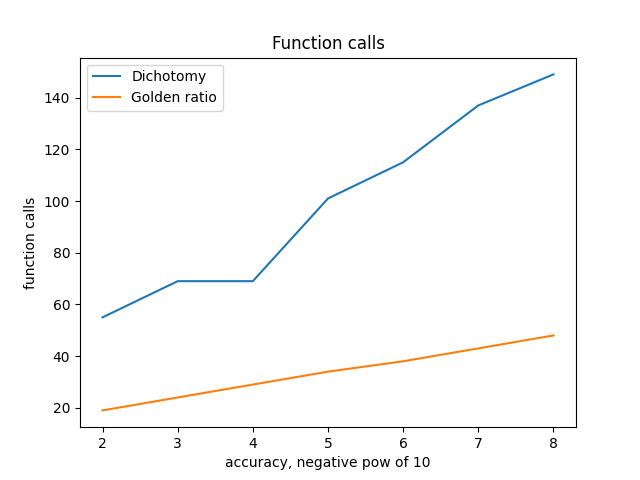
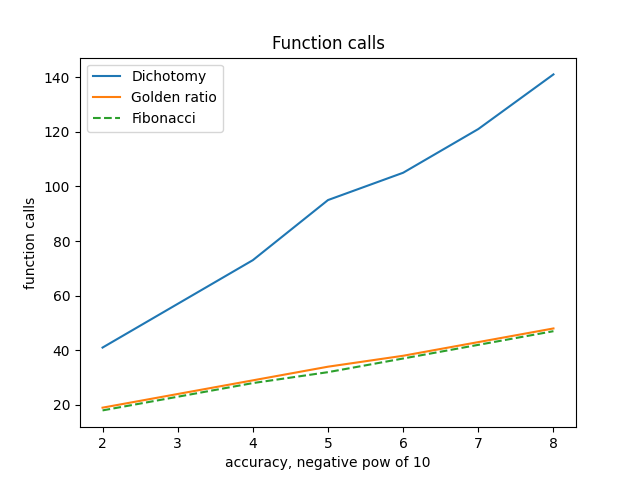
Fix and compare fibonacci method

diff --git a/lab-1/src/main/kotlin/ru/itmo/optmethods/methods/onedim/comparison/OneDimMethodsComparison.kt b/lab-1/src/main/kotlin/ru/itmo/optmethods/methods/onedim/comparison/OneDimMethodsComparison.kt
@@ -4,7 +4,9 @@ import ru.itmo.optmethods.functions.OneDimFunction
 import ru.itmo.optmethods.methods.MinimizationResult
 import ru.itmo.optmethods.methods.Rational
 import ru.itmo.optmethods.methods.onedim.DichotomyMethod
+import ru.itmo.optmethods.methods.onedim.FibonacciMethod
 import ru.itmo.optmethods.methods.onedim.GoldenRatioMethod
+import ru.itmo.optmethods.methods.onedim.OneDimMinimizationMethod
 import ru.itmo.optmethods.plot.plot
 import ru.itmo.optmethods.plot.points
 import kotlin.math.abs
@@ -15,12 +17,16 @@ private data class Segment(val start: Rational, val end: Rational) {
     val size = abs(end - start)
 }
 
+private data class MethodComparisonResult(
+    val calculationResult: MinimizationResult,
+    val segments: List<Segment>
+)
+
 private data class ComparisonResult(
     val accuracy: Rational,
-    val dichotomyResult: MinimizationResult,
-    val dichotomySegments: List<Segment>,
-    val goldenRatioResult: MinimizationResult,
-    val goldenRatioSegments: List<Segment>
+    val dichotomyResult: MethodComparisonResult,
+    val goldenRatioResult: MethodComparisonResult,
+    val fibonacciResult: MethodComparisonResult
 )
 
 object OneDimMethodsComparison {
@@ -36,38 +42,26 @@ object OneDimMethodsComparison {
             val start = -10.0
             val end = 10.0
 
-            val dichotomySegments = mutableListOf<Segment>()
-            val dichotomyMethod = DichotomyMethod(eps = eps).apply {
-                setOnIterationEndListener { rangeStart, rangeEnd ->
-                    dichotomySegments += Segment(rangeStart, rangeEnd)
-                }
-            }
-            val dichotomyResult = dichotomyMethod.findMinimum(
-                rangeStart = start,
-                rangeEnd = end,
-                function = testFunction
+            val dichotomyResult = computeMethodResults(
+                DichotomyMethod(eps),
+                start, end
             )
 
-
-            val goldenRatioSegments = mutableListOf<Segment>()
-            val goldenRatioMethod = GoldenRatioMethod(eps = eps).apply {
-                setOnIterationEndListener { rangeStart, rangeEnd ->
-                    goldenRatioSegments += Segment(rangeStart, rangeEnd)
-                }
-            }
-            val goldenRatioResult = goldenRatioMethod.findMinimum(
-                rangeStart = start,
-                rangeEnd = end,
-                function = testFunction,
+            val goldenRatioResult = computeMethodResults(
+                GoldenRatioMethod(eps),
+                start, end
             )
 
+            val fibonacciResult = computeMethodResults(
+                FibonacciMethod(eps),
+                start, end
+            )
 
             results += ComparisonResult(
                 accuracy = eps,
                 dichotomyResult = dichotomyResult,
-                dichotomySegments = dichotomySegments,
                 goldenRatioResult = goldenRatioResult,
-                goldenRatioSegments = goldenRatioSegments
+                fibonacciResult = fibonacciResult
             )
         }
 
@@ -84,12 +78,18 @@ object OneDimMethodsComparison {
 
             points {
                 label("Dichotomy")
-                add(accuracies, results.map { it.dichotomyResult.iterations })
+                add(accuracies, results.map { it.dichotomyResult.calculationResult.iterations })
             }
 
             points {
                 label("Golden ratio")
-                add(accuracies, results.map { it.goldenRatioResult.iterations })
+                add(accuracies, results.map { it.goldenRatioResult.calculationResult.iterations })
+            }
+
+            points {
+                label("Fibonacci")
+                linestyle("--")
+                add(accuracies, results.map { it.fibonacciResult.calculationResult.iterations })
             }
         }
 
@@ -101,18 +101,34 @@ object OneDimMethodsComparison {
 
             points {
                 label("Dichotomy")
-                add(accuracies, results.map { it.dichotomyResult.functionsCall })
+                add(
+                    accuracies,
+                    results.map { it.dichotomyResult.calculationResult.functionsCall }
+                )
             }
 
             points {
                 label("Golden ratio")
-                add(accuracies, results.map { it.goldenRatioResult.functionsCall })
+                add(
+                    accuracies,
+                    results.map { it.goldenRatioResult.calculationResult.functionsCall }
+                )
+            }
+
+            points {
+                label("Fibonacci")
+                linestyle("--")
+                add(
+                    accuracies,
+                    results.map { it.fibonacciResult.calculationResult.functionsCall }
+                )
             }
         }
 
         plot(saveFigPath = "results/onedim/segments.png") {
-            val dichotomySegments = results.last().dichotomySegments
-            val goldenRatioSegments = results.last().goldenRatioSegments
+            val dichotomySegments = results.last().dichotomyResult.segments
+            val goldenRatioSegments = results.last().goldenRatioResult.segments
+            val fibonacciSegments = results.last().fibonacciResult.segments
 
             title("Segment lengths, accuracy=${results.last().accuracy}")
             xlabel("iterations")
@@ -133,6 +149,35 @@ object OneDimMethodsComparison {
                     goldenRatioSegments.map { segment -> segment.size }
                 )
             }
+
+            points {
+                label("Fibonacci")
+                linestyle("--")
+                add(
+                    fibonacciSegments.indices.toList(),
+                    fibonacciSegments.map { segment -> segment.size }
+                )
+            }
         }
+    }
+
+    private fun computeMethodResults(
+        minimizationMethod: OneDimMinimizationMethod,
+        start: Rational,
+        end: Rational
+    ): MethodComparisonResult {
+        val segments = mutableListOf<Segment>()
+        val method = minimizationMethod.apply {
+            setOnIterationEndListener { rangeStart, rangeEnd ->
+                segments += Segment(rangeStart, rangeEnd)
+            }
+        }
+        val result = method.findMinimum(
+            rangeStart = start,
+            rangeEnd = end,
+            function = testFunction
+        )
+
+        return MethodComparisonResult(calculationResult = result, segments = segments)
     }
 }

diff --git a/lab-1/src/main/kotlin/ru/itmo/optmethods/methods/onedim/FibonacciMethod.kt b/lab-1/src/main/kotlin/ru/itmo/optmethods/methods/onedim/FibonacciMethod.kt
@@ -1,20 +1,17 @@
 package ru.itmo.optmethods.methods.onedim
 
+import ru.itmo.optmethods.common.PHI
 import ru.itmo.optmethods.common.avg
 import ru.itmo.optmethods.functions.InvocationsCountingFunction
 import ru.itmo.optmethods.functions.OneDimFunction
-import ru.itmo.optmethods.methods.DEFAULT_MAX_ITERATIONS
+import ru.itmo.optmethods.methods.DEFAULT_EPS
 import ru.itmo.optmethods.methods.MinimizationResult
 import ru.itmo.optmethods.methods.Rational
+import kotlin.math.*
 
 class FibonacciMethod(
-    private val maxIterations: Int = DEFAULT_MAX_ITERATIONS
+    private val eps: Rational = DEFAULT_EPS
 ) : OneDimMinimizationMethod() {
-    private val fibonacci = when {
-        fibonacciCache.size > maxIterations -> fibonacciCache
-        else -> constructFibonacciNumbers(maxIterations).also { fibonacciCache = it }
-    }
-
     override fun findMinimum(
         rangeStart: Rational,
         rangeEnd: Rational,
@@ -25,10 +22,11 @@ class FibonacciMethod(
         var start = rangeStart
         var end = rangeEnd
 
+        val maxIterations = findMaxIterations(rangeStart, rangeEnd, eps)
         val n = maxIterations - 1
 
-        val kStart = { i: Int -> fibonacci[i - 2] / fibonacci[i] }
-        val kEnd = { i: Int -> fibonacci[i - 1] / fibonacci[i] }
+        val kStart = { i: Int -> nthFibonacci(i - 2) / nthFibonacci(i) }
+        val kEnd = { i: Int -> nthFibonacci(i - 1) / nthFibonacci(i) }
 
         var x1 = start + (end - start) * kStart(n)
         var x2 = start + (end - start) * kEnd(n)
@@ -67,18 +65,18 @@ class FibonacciMethod(
         )
     }
 
-    companion object {
-        private var fibonacciCache = constructFibonacciNumbers(DEFAULT_MAX_ITERATIONS)
+    private fun nthFibonacci(n: Int): Rational =
+        round((PHI.pow(n) - (-PHI).pow(-n)) / sqrt(5.0))
 
-        private fun constructFibonacciNumbers(n: Int): DoubleArray {
-            val array = DoubleArray(n)
-            array[0] = 1.0
-            array[1] = 1.0
-            for (i in 2 until n) {
-                array[i] = array[i - 1] + array[i - 2]
-            }
+    private fun findMaxIterations(rangeStart: Rational, rangeEnd: Rational, eps: Rational): Int {
+        val rangeLength = abs(rangeEnd - rangeStart)
+        val limit = rangeLength / eps
 
-            return array
+        var fibonacciN = 0
+        while (nthFibonacci(fibonacciN) < limit) {
+            fibonacciN++
         }
+
+        return fibonacciN
     }
 }

diff --git a/lab-1/src/main/kotlin/ru/itmo/optmethods/methods/onedim/GoldenRatioMethod.kt b/lab-1/src/main/kotlin/ru/itmo/optmethods/methods/onedim/GoldenRatioMethod.kt
@@ -6,13 +6,12 @@ import ru.itmo.optmethods.functions.OneDimFunction
 import ru.itmo.optmethods.methods.DEFAULT_EPS
 import ru.itmo.optmethods.methods.MinimizationResult
 import ru.itmo.optmethods.methods.Rational
+import ru.itmo.optmethods.common.PHI
 import kotlin.math.abs
-import kotlin.math.sqrt
 
 class GoldenRatioMethod(
     private val eps: Rational = DEFAULT_EPS
 ) : OneDimMinimizationMethod() {
-    private val PHI = (sqrt(5.0) + 1) / 2
     private val K = 2 - PHI   // equals to 1 / (PHI + 1)
 
     override fun findMinimum(

diff --git a/lab-1/src/main/kotlin/ru/itmo/optmethods/common/math.kt b/lab-1/src/main/kotlin/ru/itmo/optmethods/common/math.kt
@@ -1,0 +1,4 @@
+package ru.itmo.optmethods.common
+
+/** (sqrt(5.0) + 1) / 2 */
+const val PHI = 1.618033988749895
